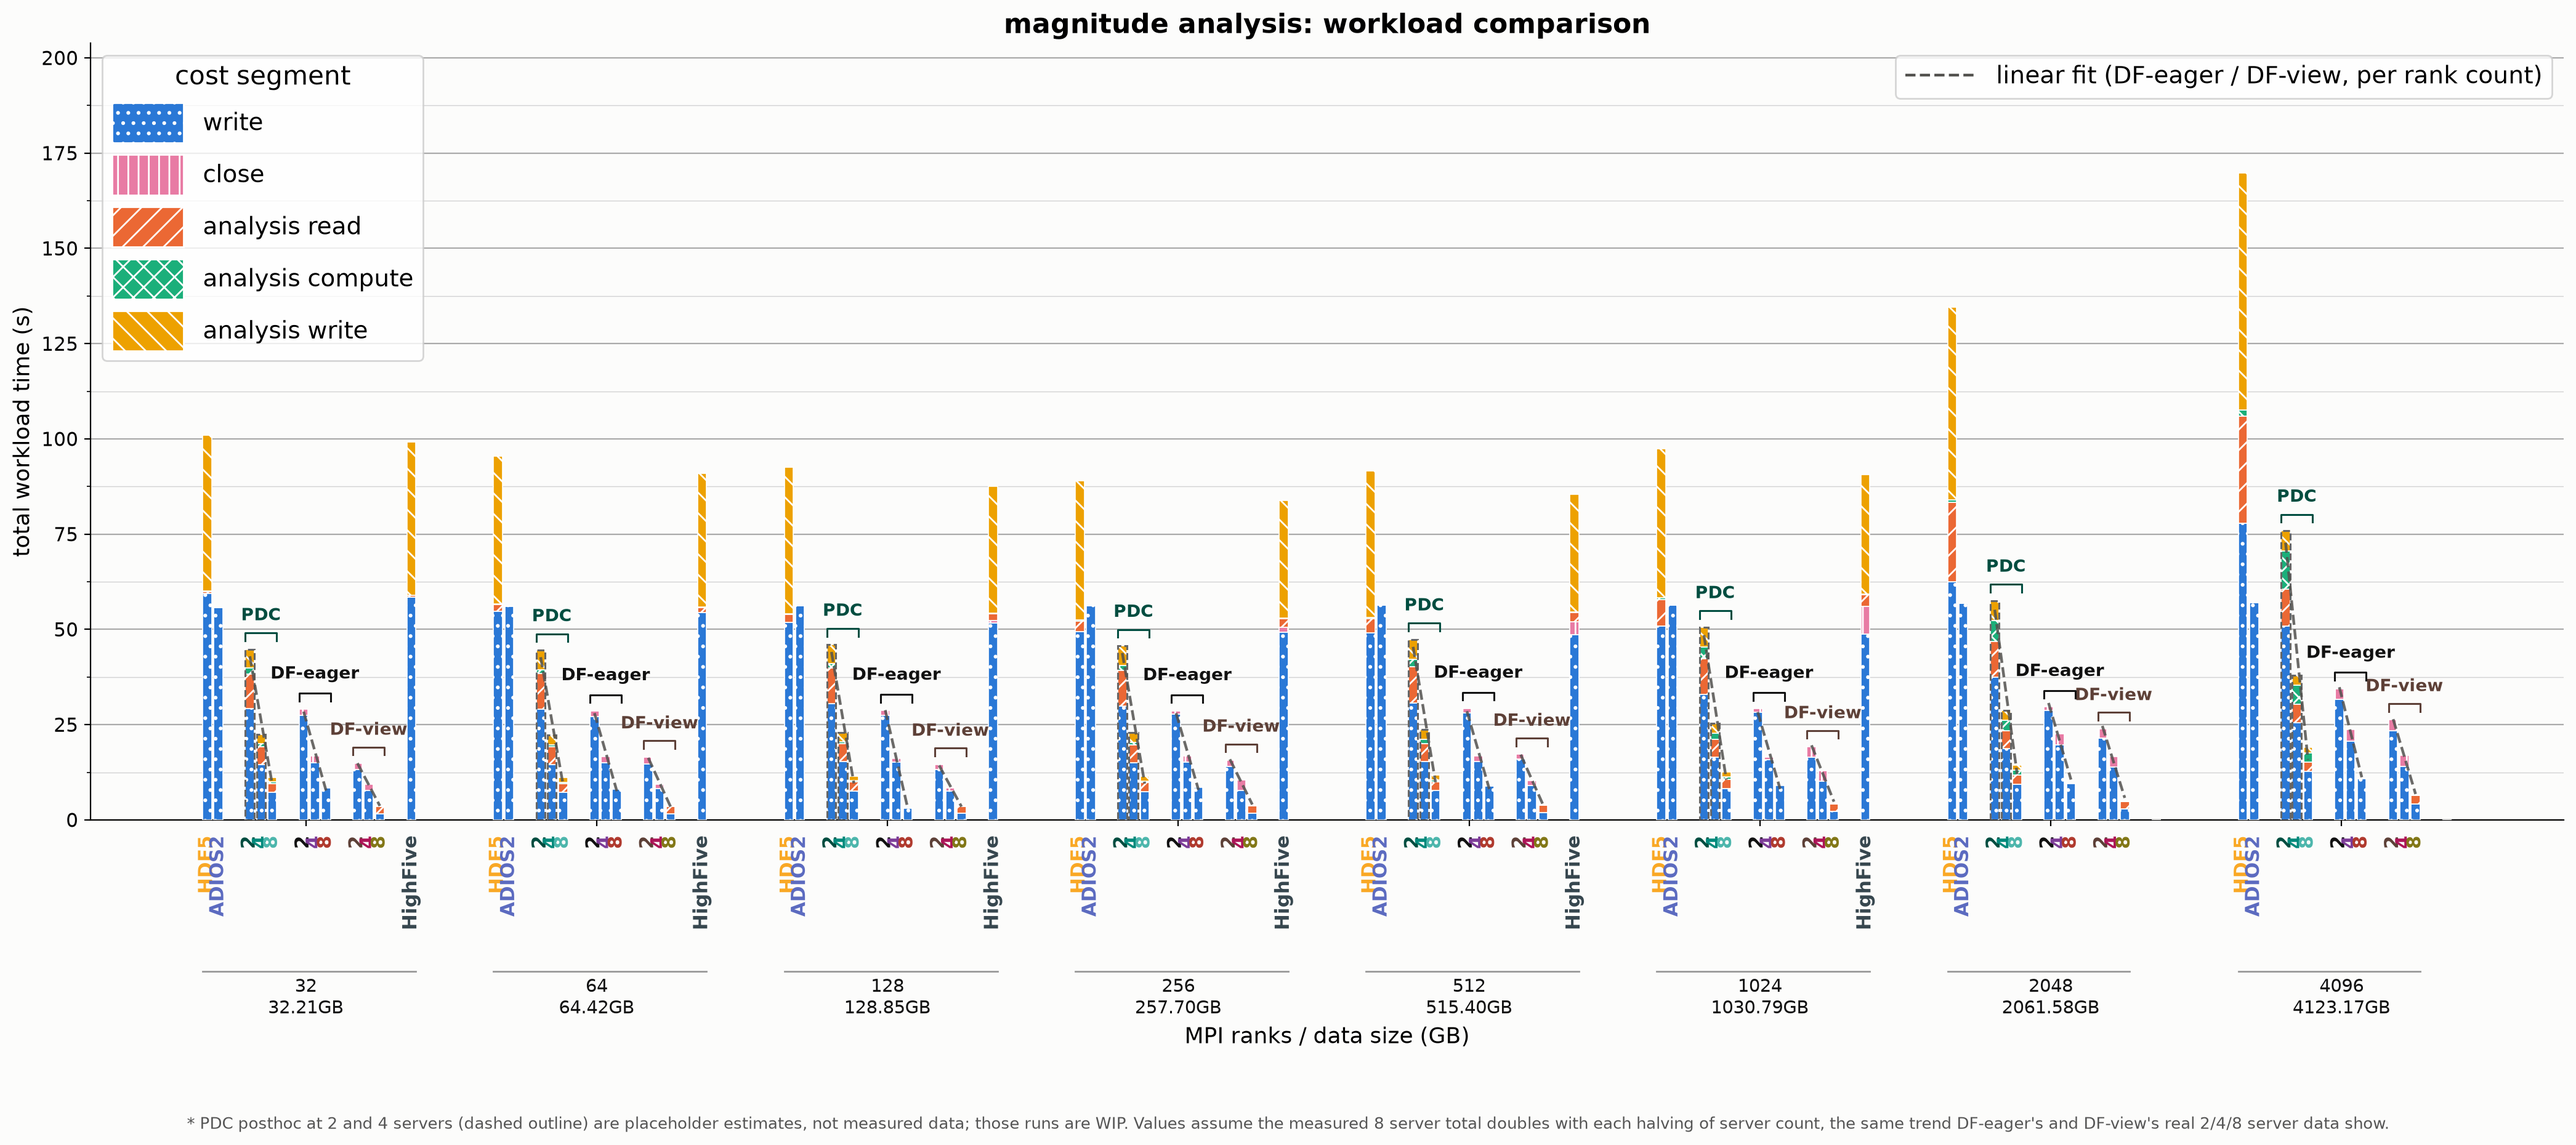
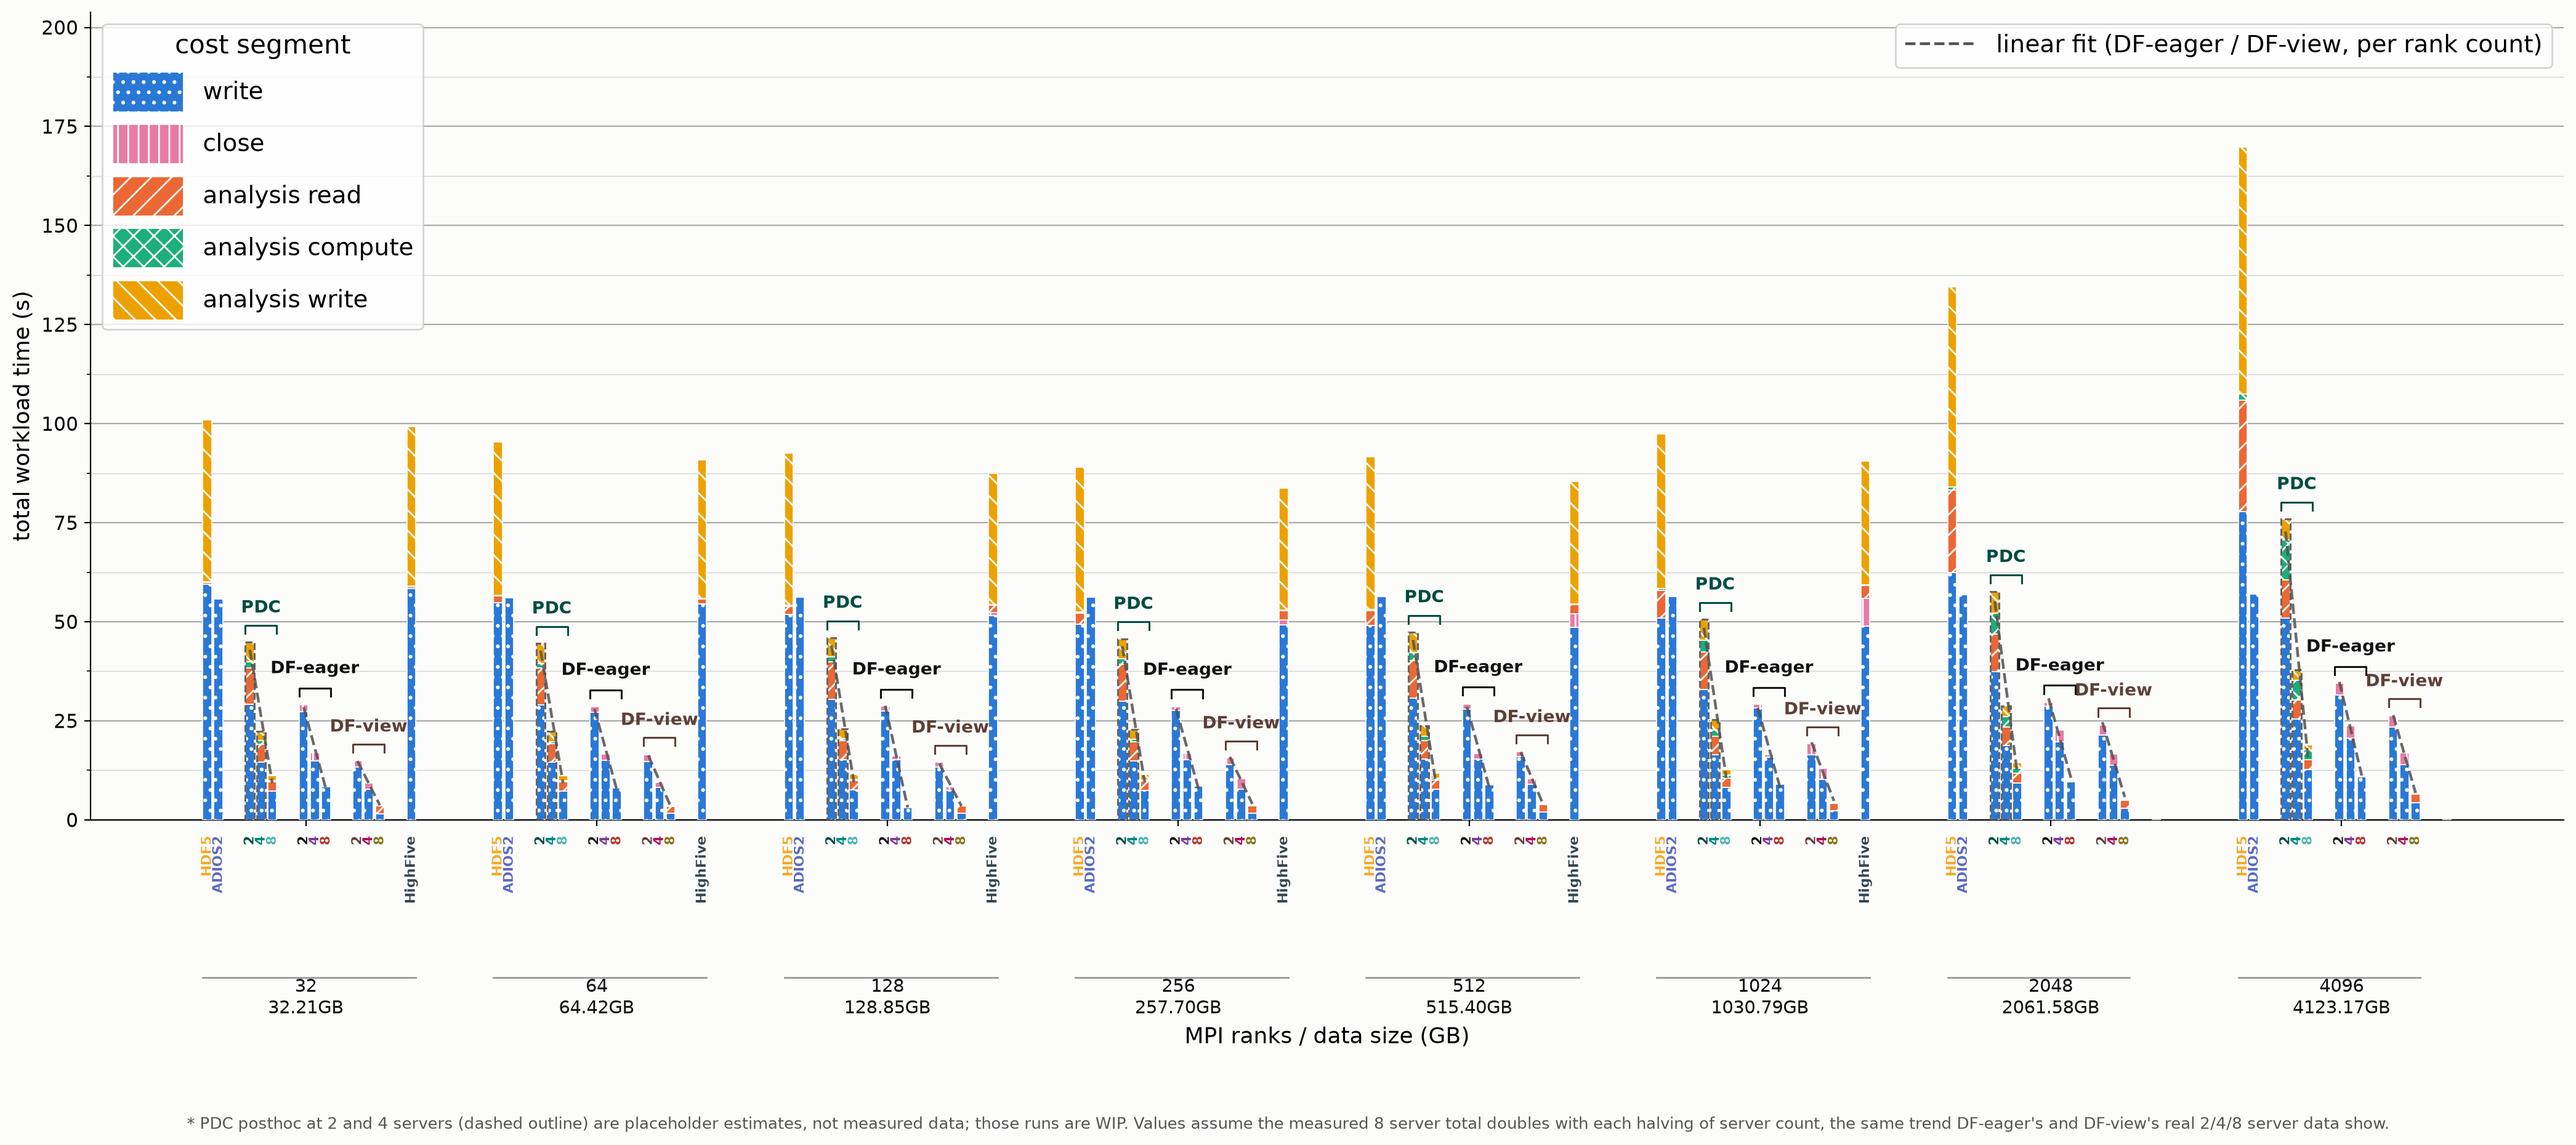
Remove chart titles; scale bar-label font to bar density instead of a fixed size
Removed ax.set_title() entirely from all three scripts.

Bar-label fontsize is no longer a fixed constant -- it's now derived
from how many bars actually share a rank-count group
(95/n_bars, clamped to [8, 14]). A fixed size couldn't satisfy "as
large as possible without overlapping" across every chart these
scripts produce: plot_magnitude_comparison.py's combined view (12
bars/group) starts overlapping past ~8pt, while the same script's
--server-count views (5 bars/group) stay perfectly clear up to 14pt --
and plot_vpicio_comparison.py's single chart will itself range from
~4 bars today to ~13 once every PDC variant has real data. Verified
by rendering every chart variant and visually confirming no adjacent
labels touch.

Claude-Session: https://claude.ai/code/session_018SQY4wo4xQPFn1NkY3KKc6

diff --git a/pdc_helper_scripts/plots/plot_magnitude_comparison.py b/pdc_helper_scripts/plots/plot_magnitude_comparison.py
@@ -633,7 +633,6 @@ def main():
     ax.set_xticklabels([rank_gb_label(n) for n in all_ranks])
     ax.set_xlabel("MPI ranks / data size (GB)", fontsize=13)
     ax.set_ylabel("total workload time (s)", fontsize=13)
-    ax.set_title("magnitude analysis: workload comparison", fontsize=16, fontweight="bold")
     ax.tick_params(axis="y", labelsize=11)
     ax.yaxis.set_minor_locator(AutoMinorLocator(2))
     ax.yaxis.grid(True, which="major", linestyle="-", linewidth=0.8, color="#888888", alpha=0.7, zorder=0)
@@ -644,6 +643,13 @@ def main():
 
     # Workload-type label underneath each bar, rotated and colored by
     # series identity -- same convention plot_curl_comparison.py uses.
+    # Scale the rotated bar-label font to the largest size that still fits
+    # this chart's own bar density without adjacent labels touching --
+    # empirically ~8pt is the ceiling at 12 bars/group (this script's
+    # combined, all-server-counts view) and up to 14pt is fine once
+    # --server-count narrows it to 5 bars/group, so a fixed size can't be
+    # both legible there and non-overlapping here.
+    bar_label_fontsize = float(np.clip(95.0 / max(n_bars, 1), 8.0, 14.0))
     label_trans = mtransforms.blended_transform_factory(ax.transData, ax.transAxes)
     for key in series:
         for gi, n_ranks in enumerate(all_ranks):
@@ -652,7 +658,7 @@ def main():
             ax.text(
                 bar_centers[(key, gi)], -0.02, bar_label(key),
                 transform=label_trans, rotation=90, ha="center", va="top",
-                fontsize=11, fontweight="bold", color=bar_label_color(key), clip_on=False,
+                fontsize=bar_label_fontsize, fontweight="bold", color=bar_label_color(key), clip_on=False,
             )
     # Smaller, darker ranks/GB tick labels so they read clearly against
     # the taller rotated bar labels and strong-scaling brackets crowding

diff --git a/pdc_helper_scripts/plots/plot_curl_comparison.py b/pdc_helper_scripts/plots/plot_curl_comparison.py
@@ -440,7 +440,10 @@ def main():
 
     # Workload-type label underneath each bar, rotated and colored by
     # series identity -- same convention plot_magnitude_comparison.py
-    # uses, per explicit request.
+    # uses, per explicit request. Font scales with bar density (see that
+    # script's identical bar_label_fontsize for why a fixed size can't
+    # work across charts with different bar counts/group).
+    bar_label_fontsize = float(np.clip(95.0 / max(n_bars, 1), 8.0, 14.0))
     label_trans = mtransforms.blended_transform_factory(ax.transData, ax.transAxes)
     for key in series:
         for gi, n_ranks in enumerate(all_ranks):
@@ -449,7 +452,7 @@ def main():
             ax.text(
                 bar_centers[(key, gi)], -0.02, bar_label(key),
                 transform=label_trans, rotation=90, ha="center", va="top",
-                fontsize=11, fontweight="bold", color=bar_label_color(key), clip_on=False,
+                fontsize=bar_label_fontsize, fontweight="bold", color=bar_label_color(key), clip_on=False,
             )
     # Smaller, darker ranks/GB tick labels so they read clearly against
     # the taller rotated bar labels crowding the space right above them.
@@ -508,7 +511,6 @@ def main():
     ax.set_xticklabels([rank_gb_label(n) for n in all_ranks])
     ax.set_xlabel("MPI ranks / data size (GB)", fontsize=13)
     ax.set_ylabel("total workload time (s)", fontsize=13)
-    ax.set_title("curl + vorticity-magnitude: eager strong scaling vs. other methods", fontsize=16, fontweight="bold")
     ax.tick_params(axis="y", labelsize=11)
     ax.yaxis.set_minor_locator(AutoMinorLocator(2))
     ax.yaxis.grid(True, which="major", linestyle="-", linewidth=0.8, color="#888888", alpha=0.7, zorder=0)

diff --git a/pdc_helper_scripts/plots/plot_vpicio_comparison.py b/pdc_helper_scripts/plots/plot_vpicio_comparison.py
@@ -468,7 +468,6 @@ def main():
     ax.set_xticklabels([str(n) for n in all_ranks])
     ax.set_xlabel("MPI ranks", fontsize=13)
     ax.set_ylabel("total workload time (s)", fontsize=13)
-    ax.set_title("VPIC-IO: write-throughput comparison", fontsize=16, fontweight="bold")
     ax.tick_params(axis="y", labelsize=11)
     ax.yaxis.set_minor_locator(AutoMinorLocator(2))
     ax.yaxis.grid(True, which="major", linestyle="-", linewidth=0.8, color="#888888", alpha=0.7, zorder=0)
@@ -477,6 +476,12 @@ def main():
     ax.spines["top"].set_visible(False)
     ax.spines["right"].set_visible(False)
 
+    # Font scales with bar density -- see
+    # plot_magnitude_comparison.py's identical bar_label_fontsize for why
+    # a fixed size can't work across charts with different bar
+    # counts/group (this chart alone ranges from ~4 bars today to ~13
+    # once all four PDC variants plus ADIOS2 have real data).
+    bar_label_fontsize = float(np.clip(95.0 / max(n_bars, 1), 8.0, 14.0))
     label_trans = mtransforms.blended_transform_factory(ax.transData, ax.transAxes)
     for key in series:
         for gi, n_ranks in enumerate(all_ranks):
@@ -485,7 +490,7 @@ def main():
             ax.text(
                 bar_centers[(key, gi)], -0.02, bar_label(key),
                 transform=label_trans, rotation=90, ha="center", va="top",
-                fontsize=11, fontweight="bold", color=bar_label_color(key), clip_on=False,
+                fontsize=bar_label_fontsize, fontweight="bold", color=bar_label_color(key), clip_on=False,
             )
     ax.tick_params(axis="x", pad=88, labelsize=10.5, labelcolor="#111111")
 
